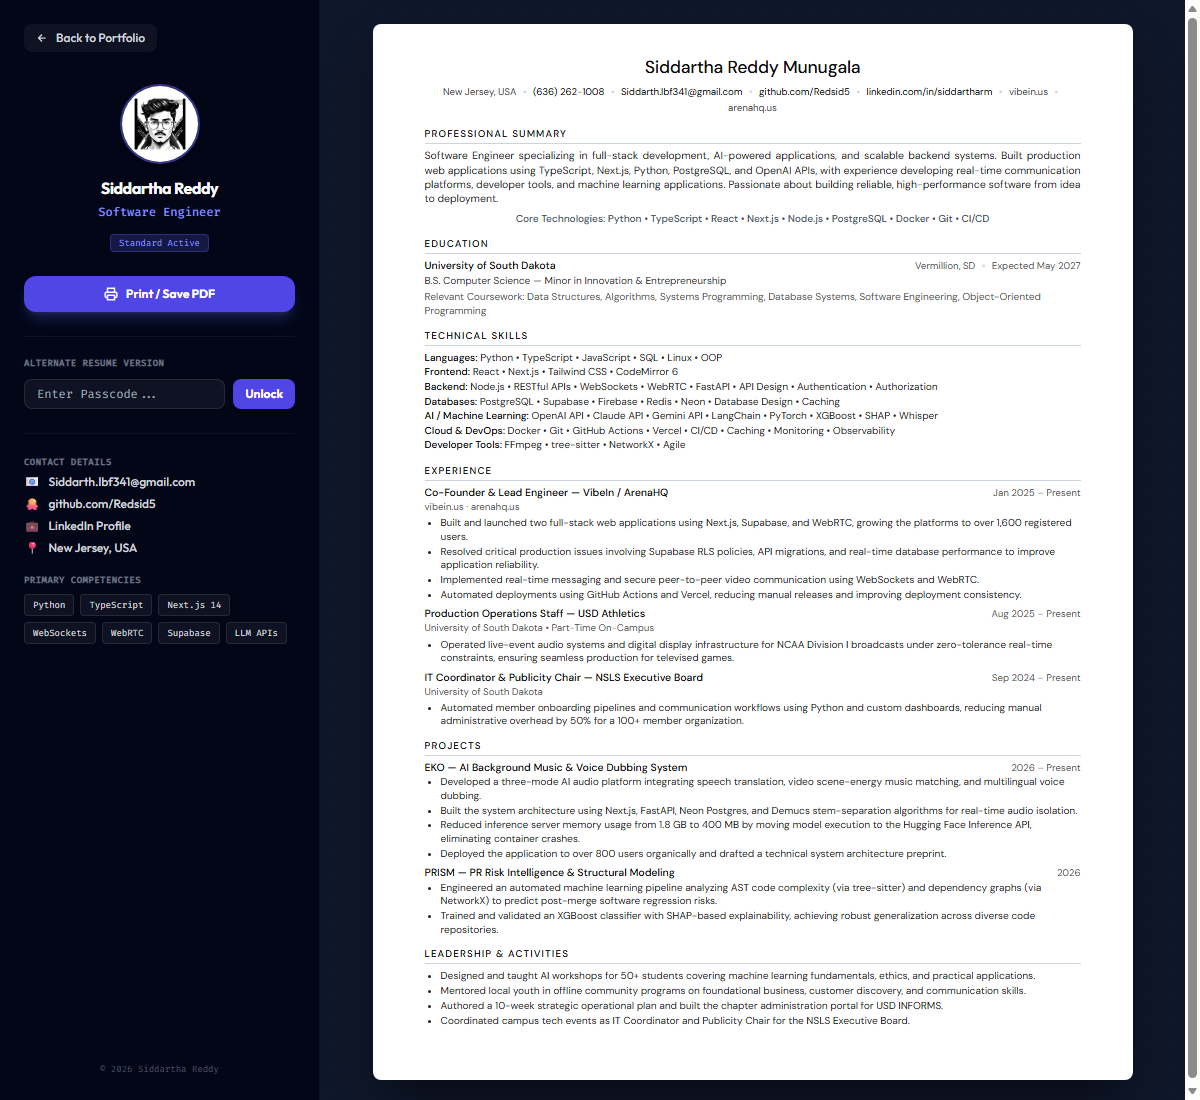
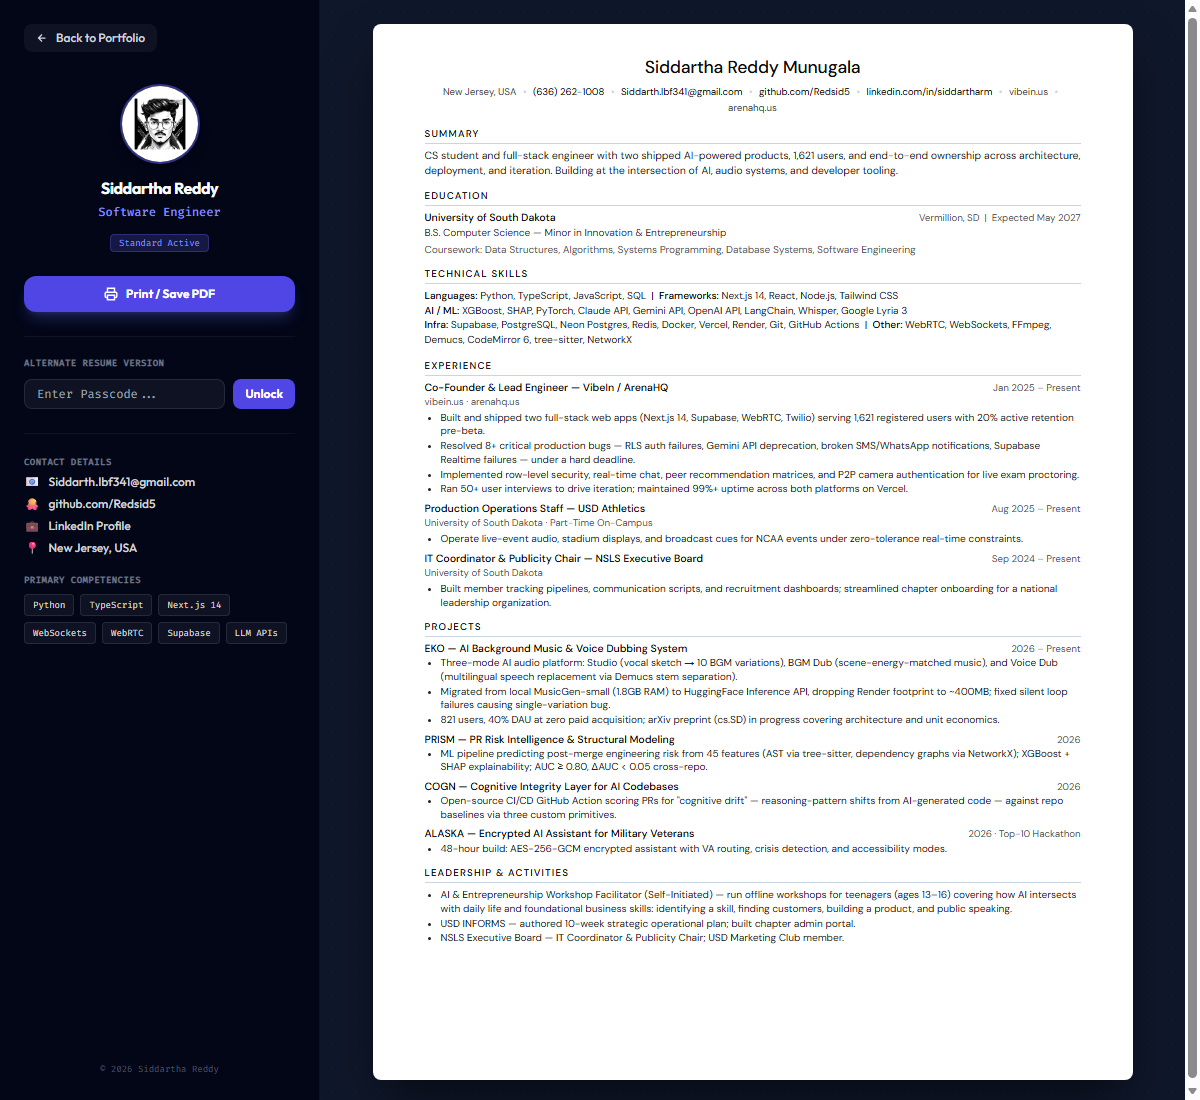
Update standard resume block with new main ATS resume draft content and rebuild production bundle

Changed region(s): [[0.3392, 0.0927, 0.8942, 0.9273]]

diff --git a/resume.html b/resume.html
@@ -344,14 +344,11 @@
         vibein.us <span class="sep">&bull;</span> arenahq.us
       </div>
 
-      <!-- PROFESSIONAL SUMMARY -->
+      <!-- SUMMARY -->
       <section class="section">
-        <div class="section-title">Professional Summary</div>
+        <div class="section-title">Summary</div>
         <p class="summary">
-          Software Engineer specializing in full-stack development, AI-powered applications, and scalable backend systems. Built production web applications using TypeScript, Next.js, Python, PostgreSQL, and OpenAI APIs, with experience developing real-time communication platforms, developer tools, and machine learning applications. Passionate about building reliable, high-performance software from idea to deployment.
-        </p>
-        <p class="core-tech">
-          Core Technologies: Python &bull; TypeScript &bull; React &bull; Next.js &bull; Node.js &bull; PostgreSQL &bull; Docker &bull; Git &bull; CI/CD
+          CS student and full-stack engineer with two shipped AI-powered products, 1,621 users, and end-to-end ownership across architecture, deployment, and iteration. Building at the intersection of AI, audio systems, and developer tooling.
         </p>
       </section>
 
@@ -361,10 +358,10 @@
         <div class="entry">
           <div class="row">
             <span class="bold">University of South Dakota</span>
-            <span class="meta">Vermillion, SD <span class="sep">&bull;</span> Expected May 2027</span>
+            <span class="meta">Vermillion, SD &nbsp;|&nbsp; Expected May 2027</span>
           </div>
           <div class="subline">B.S. Computer Science — Minor in Innovation &amp; Entrepreneurship</div>
-          <div class="small">Relevant Coursework: Data Structures, Algorithms, Systems Programming, Database Systems, Software Engineering, Object-Oriented Programming</div>
+          <div class="small">Coursework: Data Structures, Algorithms, Systems Programming, Database Systems, Software Engineering</div>
         </div>
       </section>
 
@@ -372,13 +369,11 @@
       <section class="section">
         <div class="section-title">Technical Skills</div>
         <div class="skills-block">
-          <strong>Languages:</strong> Python &bull; TypeScript &bull; JavaScript &bull; SQL &bull; Linux &bull; OOP<br>
-          <strong>Frontend:</strong> React &bull; Next.js &bull; Tailwind CSS &bull; CodeMirror 6<br>
-          <strong>Backend:</strong> Node.js &bull; RESTful APIs &bull; WebSockets &bull; WebRTC &bull; FastAPI &bull; API Design &bull; Authentication &bull; Authorization<br>
-          <strong>Databases:</strong> PostgreSQL &bull; Supabase &bull; Firebase &bull; Redis &bull; Neon &bull; Database Design &bull; Caching<br>
-          <strong>AI / Machine Learning:</strong> OpenAI API &bull; Claude API &bull; Gemini API &bull; LangChain &bull; PyTorch &bull; XGBoost &bull; SHAP &bull; Whisper<br>
-          <strong>Cloud &amp; DevOps:</strong> Docker &bull; Git &bull; GitHub Actions &bull; Vercel &bull; CI/CD &bull; Caching &bull; Monitoring &bull; Observability<br>
-          <strong>Developer Tools:</strong> FFmpeg &bull; tree-sitter &bull; NetworkX &bull; Agile
+          <strong>Languages:</strong> Python, TypeScript, JavaScript, SQL &nbsp;|&nbsp;
+          <strong>Frameworks:</strong> Next.js 14, React, Node.js, Tailwind CSS<br>
+          <strong>AI / ML:</strong> XGBoost, SHAP, PyTorch, Claude API, Gemini API, OpenAI API, LangChain, Whisper, Google Lyria 3<br>
+          <strong>Infra:</strong> Supabase, PostgreSQL, Neon Postgres, Redis, Docker, Vercel, Render, Git, GitHub Actions &nbsp;|&nbsp;
+          <strong>Other:</strong> WebRTC, WebSockets, FFmpeg, Demucs, CodeMirror 6, tree-sitter, NetworkX
         </div>
       </section>
 
@@ -393,10 +388,10 @@
           </div>
           <div class="entry-sub">vibein.us · arenahq.us</div>
           <ul>
-            <li>Built and launched two full-stack web applications using Next.js, Supabase, and WebRTC, growing the platforms to over 1,600 registered users.</li>
-            <li>Resolved critical production issues involving Supabase RLS policies, API migrations, and real-time database performance to improve application reliability.</li>
-            <li>Implemented real-time messaging and secure peer-to-peer video communication using WebSockets and WebRTC.</li>
-            <li>Automated deployments using GitHub Actions and Vercel, reducing manual releases and improving deployment consistency.</li>
+            <li>Built and shipped two full-stack web apps (Next.js 14, Supabase, WebRTC, Twilio) serving 1,621 registered users with 20% active retention pre-beta.</li>
+            <li>Resolved 8+ critical production bugs — RLS auth failures, Gemini API deprecation, broken SMS/WhatsApp notifications, Supabase Realtime failures — under a hard deadline.</li>
+            <li>Implemented row-level security, real-time chat, peer recommendation matrices, and P2P camera authentication for live exam proctoring.</li>
+            <li>Ran 50+ user interviews to drive iteration; maintained 99%+ uptime across both platforms on Vercel.</li>
           </ul>
         </div>
 
@@ -405,9 +400,9 @@
             <span class="bold">Production Operations Staff — USD Athletics</span>
             <span class="meta">Aug 2025 – Present</span>
           </div>
-          <div class="entry-sub">University of South Dakota &bull; Part-Time On-Campus</div>
+          <div class="entry-sub">University of South Dakota · Part-Time On-Campus</div>
           <ul>
-            <li>Operated live-event audio systems and digital display infrastructure for NCAA Division I broadcasts under zero-tolerance real-time constraints, ensuring seamless production for televised games.</li>
+            <li>Operate live-event audio, stadium displays, and broadcast cues for NCAA events under zero-tolerance real-time constraints.</li>
           </ul>
         </div>
 
@@ -418,7 +413,7 @@
           </div>
           <div class="entry-sub">University of South Dakota</div>
           <ul>
-            <li>Automated member onboarding pipelines and communication workflows using Python and custom dashboards, reducing manual administrative overhead by 50% for a 100+ member organization.</li>
+            <li>Built member tracking pipelines, communication scripts, and recruitment dashboards; streamlined chapter onboarding for a national leadership organization.</li>
           </ul>
         </div>
       </section>
@@ -433,10 +428,9 @@
             <span class="meta">2026 – Present</span>
           </div>
           <ul>
-            <li>Developed a three-mode AI audio platform integrating speech translation, video scene-energy music matching, and multilingual voice dubbing.</li>
-            <li>Built the system architecture using Next.js, FastAPI, Neon Postgres, and Demucs stem-separation algorithms for real-time audio isolation.</li>
-            <li>Reduced inference server memory usage from 1.8 GB to 400 MB by moving model execution to the Hugging Face Inference API, eliminating container crashes.</li>
-            <li>Deployed the application to over 800 users organically and drafted a technical system architecture preprint.</li>
+            <li>Three-mode AI audio platform: Studio (vocal sketch → 10 BGM variations), BGM Dub (scene-energy-matched music), and Voice Dub (multilingual speech replacement via Demucs stem separation).</li>
+            <li>Migrated from local MusicGen-small (1.8GB RAM) to HuggingFace Inference API, dropping Render footprint to ~400MB; fixed silent loop failures causing single-variation bug.</li>
+            <li>821 users, 40% DAU at zero paid acquisition; arXiv preprint (cs.SD) in progress covering architecture and unit economics.</li>
           </ul>
         </div>
 
@@ -446,8 +440,27 @@
             <span class="meta">2026</span>
           </div>
           <ul>
-            <li>Engineered an automated machine learning pipeline analyzing AST code complexity (via tree-sitter) and dependency graphs (via NetworkX) to predict post-merge software regression risks.</li>
-            <li>Trained and validated an XGBoost classifier with SHAP-based explainability, achieving robust generalization across diverse code repositories.</li>
+            <li>ML pipeline predicting post-merge engineering risk from 45 features (AST via tree-sitter, dependency graphs via NetworkX); XGBoost + SHAP explainability; AUC ≥ 0.80, ΔAUC &lt; 0.05 cross-repo.</li>
+          </ul>
+        </div>
+
+        <div class="entry">
+          <div class="row">
+            <span class="bold">COGN — Cognitive Integrity Layer for AI Codebases</span>
+            <span class="meta">2026</span>
+          </div>
+          <ul>
+            <li>Open-source CI/CD GitHub Action scoring PRs for "cognitive drift" — reasoning-pattern shifts from AI-generated code — against repo baselines via three custom primitives.</li>
+          </ul>
+        </div>
+
+        <div class="entry">
+          <div class="row">
+            <span class="bold">ALASKA — Encrypted AI Assistant for Military Veterans</span>
+            <span class="meta">2026 · Top-10 Hackathon</span>
+          </div>
+          <ul>
+            <li>48-hour build: AES-256-GCM encrypted assistant with VA routing, crisis detection, and accessibility modes.</li>
           </ul>
         </div>
       </section>
@@ -457,10 +470,9 @@
         <div class="section-title">Leadership &amp; Activities</div>
         <div class="entry">
           <ul>
-            <li>Designed and taught AI workshops for 50+ students covering machine learning fundamentals, ethics, and practical applications.</li>
-            <li>Mentored local youth in offline community programs on foundational business, customer discovery, and communication skills.</li>
-            <li>Authored a 10-week strategic operational plan and built the chapter administration portal for USD INFORMS.</li>
-            <li>Coordinated campus tech events as IT Coordinator and Publicity Chair for the NSLS Executive Board.</li>
+            <li>AI &amp; Entrepreneurship Workshop Facilitator (Self-Initiated) — run offline workshops for teenagers (ages 13–16) covering how AI intersects with daily life and foundational business skills: identifying a skill, finding customers, building a product, and public speaking.</li>
+            <li>USD INFORMS — authored 10-week strategic operational plan; built chapter admin portal.</li>
+            <li>NSLS Executive Board — IT Coordinator &amp; Publicity Chair; USD Marketing Club member.</li>
           </ul>
         </div>
       </section>
